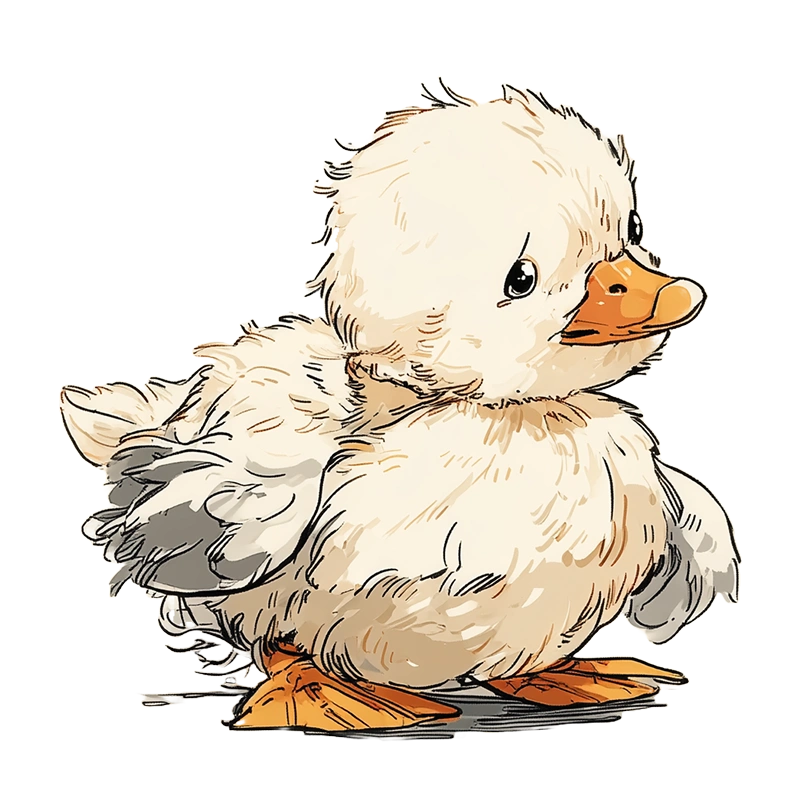
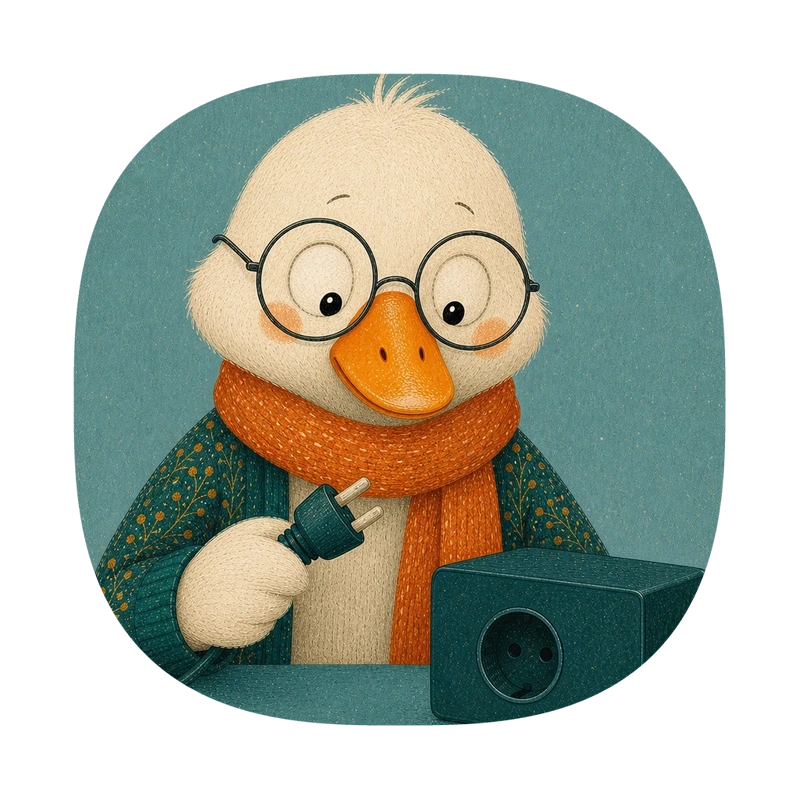
에셋 이미지 교체, 작은 리팩토링

diff --git a/server/main.js b/server/main.js
@@ -27,8 +27,8 @@ let routes = {
 // run server
 const server = serve({
   development: isDev(),
-  hostname: Number(HOST) || '0.0.0.0',
-  port: String(PORT) || 80,
+  hostname: String(HOST) || '0.0.0.0',
+  port: Number(PORT) || 80,
   routes,
   error: endpointError,
 })

diff --git a/client/main.js b/client/main.js
@@ -2,9 +2,6 @@ import { createApp } from 'vue'
 import router from './router/index.js'
 import App from './app.vue'
 
-// load main stylesheet
-import './scss/main.scss'
-
 const app = createApp(App, {})
   .use(router)
   .mount('#app')

diff --git a/client/app.vue b/client/app.vue
@@ -61,3 +61,5 @@ watch(() => route.name, () => {
   if (!!error.value) error.value = undefined
 })
 </script>
+
+<style src="./app.scss" lang="scss"></style>